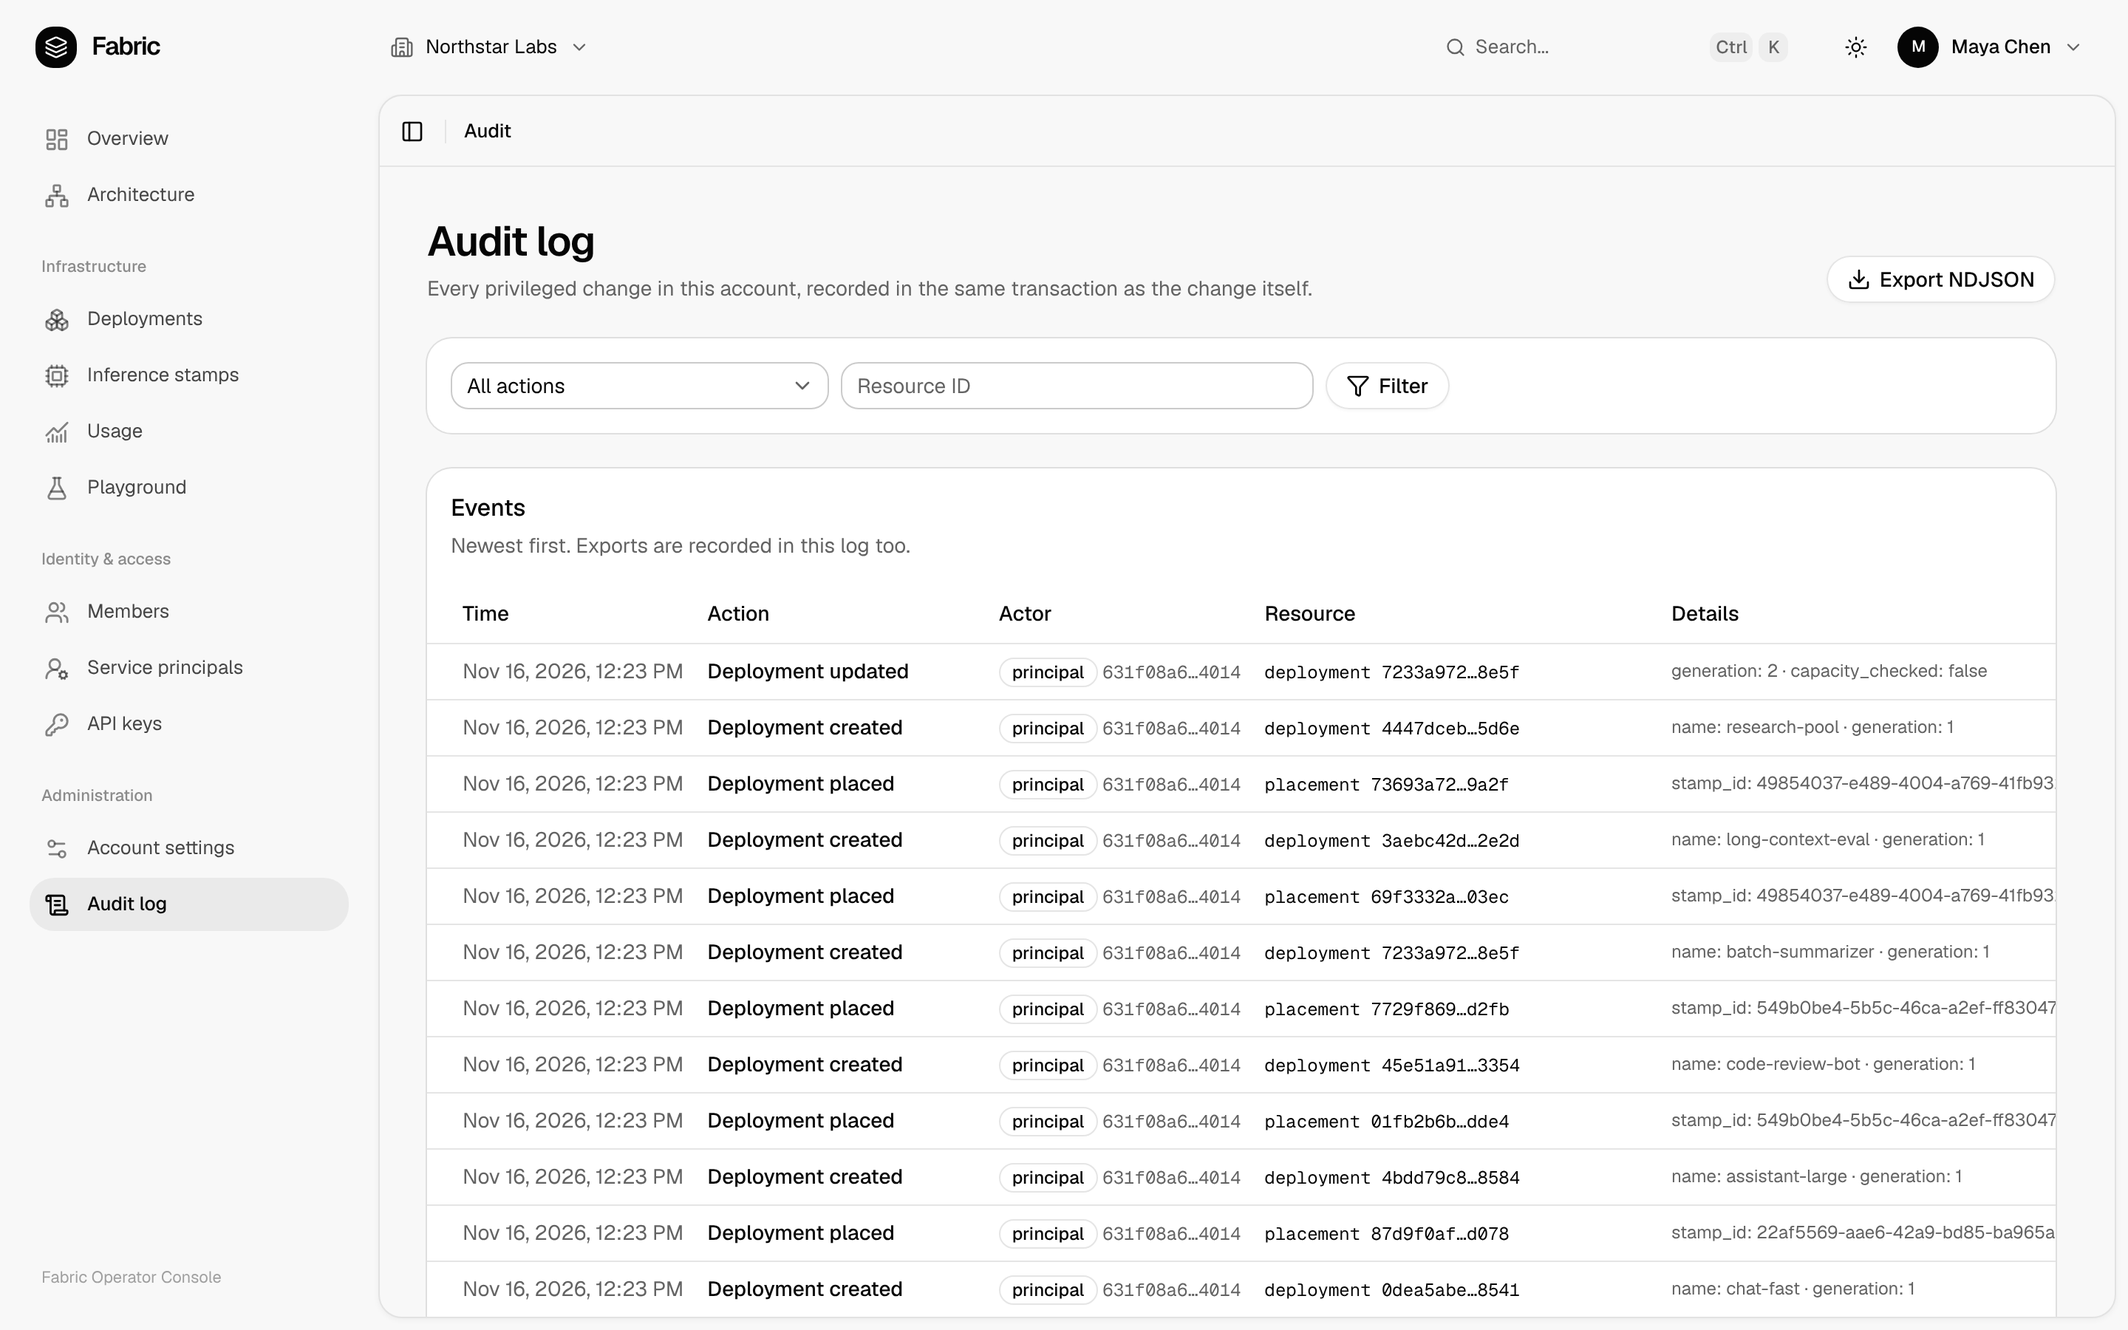
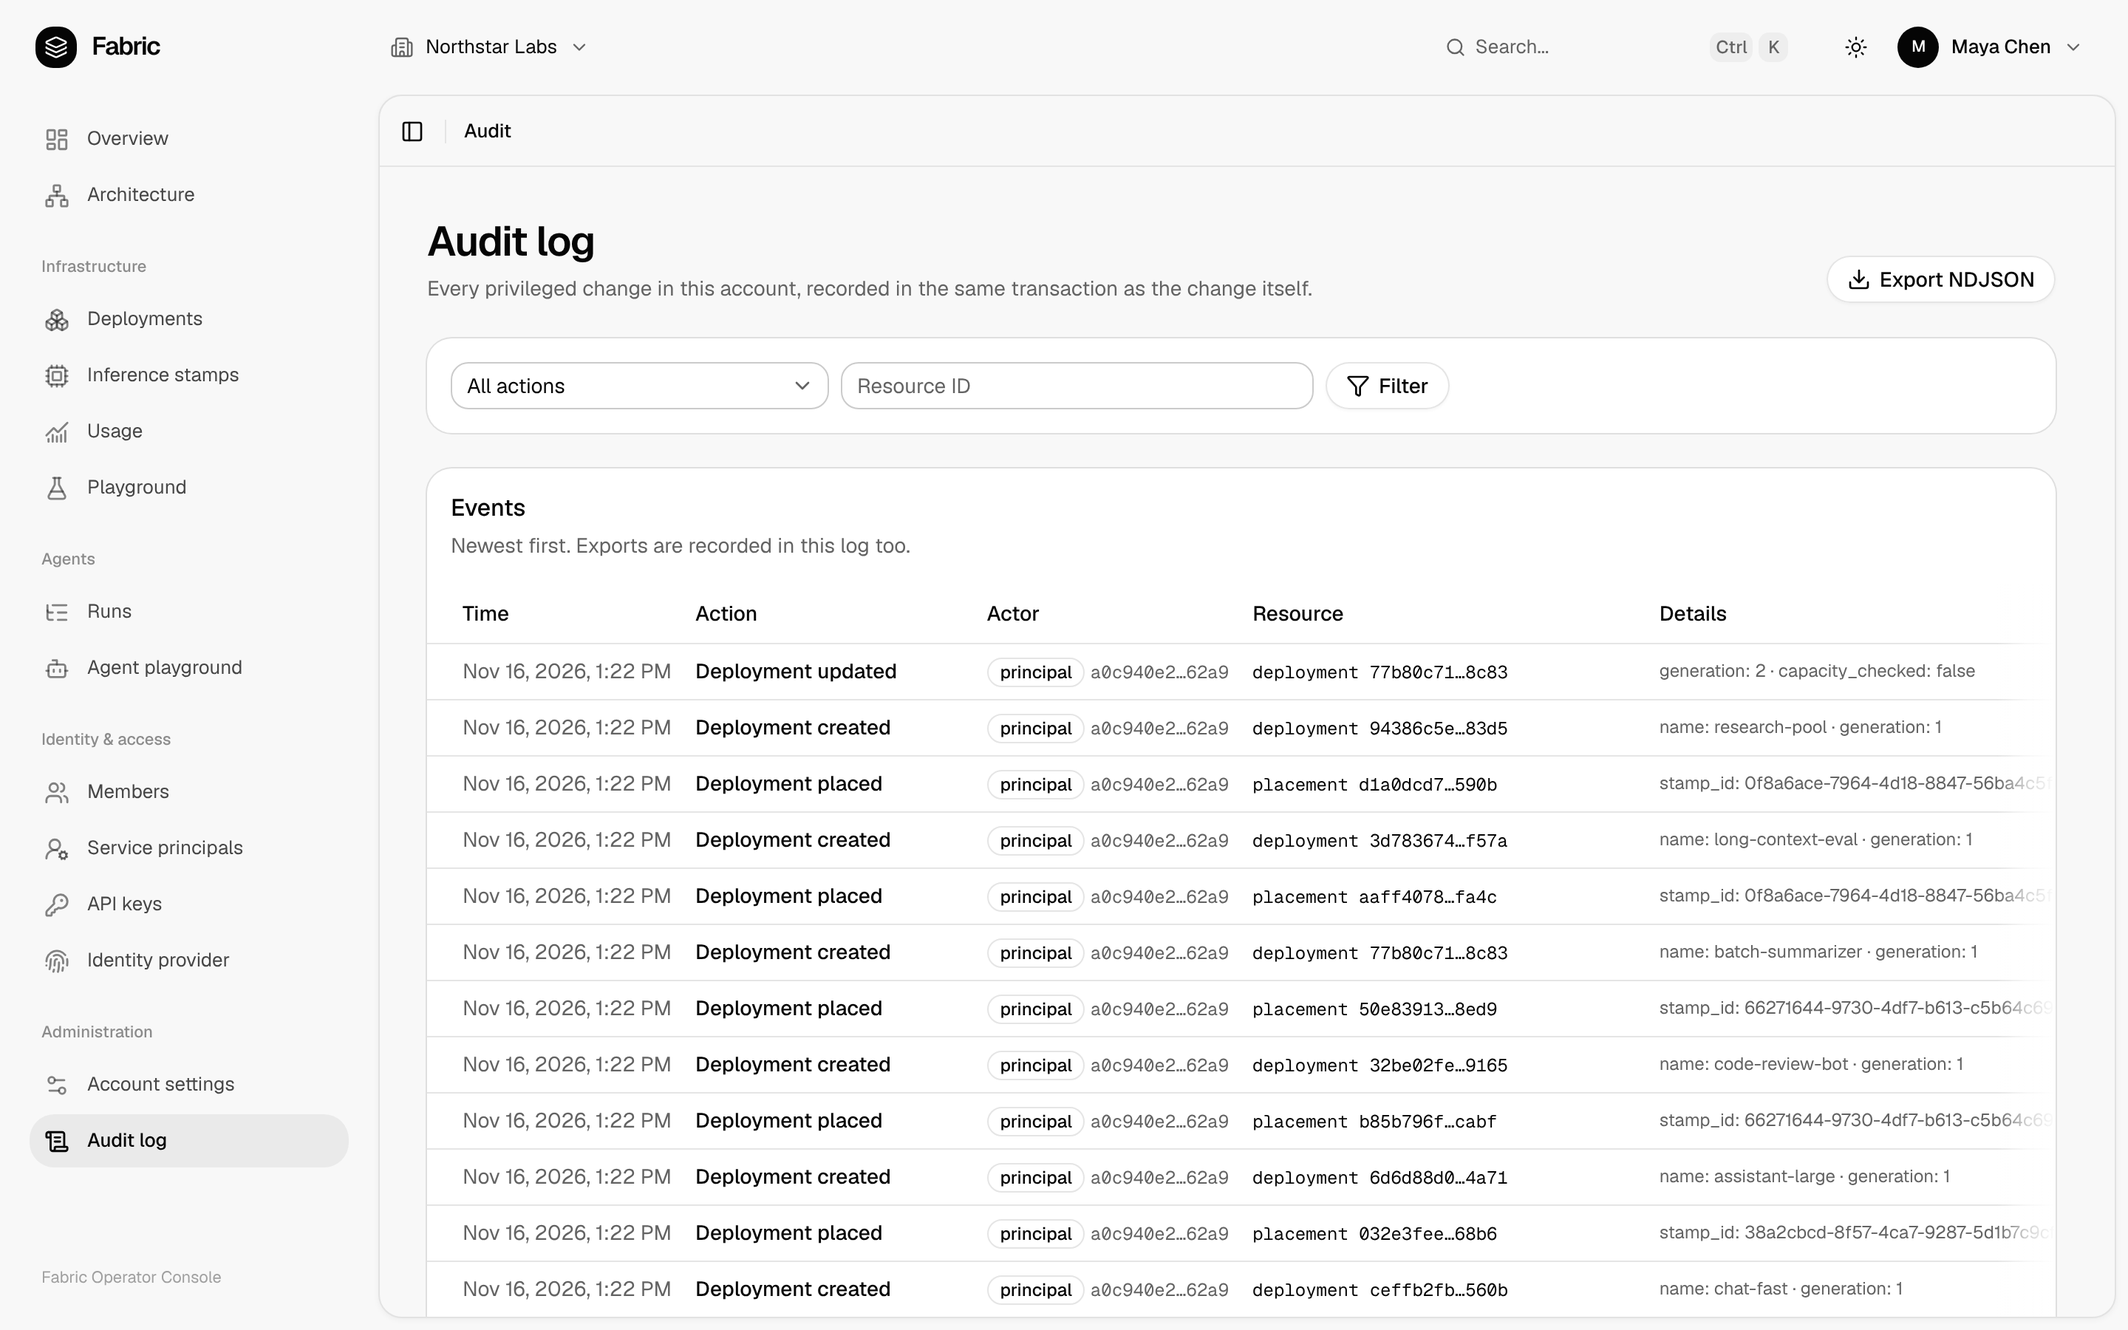
Demo: edge gateway in front of the stamps, screenshots for the new console pages
make demo-console runs the real edge gateway over HTTPS
(scripts/demo-console/edge.py) with an edge credential and stamp address
overrides, and the console uses it, so the playground compares models on
different stamps. Seeded deployments declare cascade tiers. The screenshot
harness covers the account switcher, the deployment Routing card and drawer,
the identity provider page and drawer, member names, a narrow table and the
Agents pages.

Claude-Session: https://claude.ai/code/session_01KVoJdRb3aybwyk1pzwUnwQ

diff --git a/scripts/demo-console/seed.py b/scripts/demo-console/seed.py
@@ -36,6 +36,7 @@ import subprocess
 import sys
 import time
 from pathlib import Path
+from urllib.parse import urlsplit
 
 import httpx
 
@@ -75,16 +76,19 @@ STAMPS = [
 ]
 
 # name, alias, release, stamp (None = not placed), outcome, extra spec, requests to send.
-# Small Qwen3.5 models served by vLLM; the "-large" alias is the cascade's upper tier.
+# Small Qwen3.5 models served by vLLM. cascade_tier orders model="cascade": chat-fast first,
+# then support-assistant, then the "-large" alias as the upper tier.
 DEPLOYMENTS = [
     ("support-assistant", "qwen3.5-2b", "Qwen/Qwen3.5-2B", "aks-gpu", "ready",
      {"replicas": 2, "resources": {"gpu_class": "t4"},
+      "capabilities": {"cascade_tier": 1},
       "runtime": {"max_model_len": 16384, "strategy": "prefix_aware"}}, 140),
     ("chat-fast", "qwen3.5-0.8b", "Qwen/Qwen3.5-0.8B", "aks-gpu", "ready",
-     {"resources": {"gpu_class": "t4"}, "capabilities": {"priority": -10},
+     {"resources": {"gpu_class": "t4"}, "capabilities": {"priority": -10, "cascade_tier": 0},
       "runtime": {"max_model_len": 8192}}, 95),
     ("assistant-large", "qwen3.5-2b-large", "Qwen/Qwen3.5-2B", "gcp-rtx6000", "ready",
-     {"resources": {"gpu_class": "a10"}, "capabilities": {"priority": 10, "reasoning": True},
+     {"resources": {"gpu_class": "a10"},
+      "capabilities": {"priority": 10, "reasoning": True, "cascade_tier": 2},
       "runtime": {"max_model_len": 65536, "max_num_seqs": 256}}, 60),
     ("code-review-bot", "qwen3.5-2b-code", "Qwen/Qwen3.5-2B", "gcp-rtx6000", "deploying",
      {"resources": {"gpu_class": "a10"}, "capabilities": {"code": True}}, 0),
@@ -559,6 +563,13 @@ class Demo:
             "deployment_ids": {name: d["id"] for name, d in self.deployments.items()},
             "playground_deployment_id": playground["id"],
             "stamps": {name: s["id"] for name, s in self.stamps.items()},
+            # Where each stamp's reported gateway really listens, for the demo edge gateway's
+            # address overrides: {"aks-gpu.gw.northstar-labs.example:443": "127.0.0.1:8090"}.
+            "gateway_addresses": {
+                f"{urlsplit(s['inference_url']).hostname}:443":
+                    f"127.0.0.1:{urlsplit(s['dp_url']).port}"
+                for s in self.stamps.values()
+            },
         }
         Path(self.args.state_file).write_text(json.dumps(state, indent=2))
 

diff --git a/scripts/demo-console/edge.py b/scripts/demo-console/edge.py
@@ -1,0 +1,56 @@
+"""Run the real edge gateway (ADR 0021) for the console demo, over HTTPS.
+
+`python -m fabric_data_plane.edge` serves plain HTTP behind an ingress that terminates TLS.
+The demo has no ingress and the console's production build only accepts an HTTPS gateway,
+so this starts the same EdgeGateway, poller and key refresher with the public listener on
+the demo's throwaway certificate. Everything else is configured by the edge's own
+FABRIC_EDGE_* environment, including stamp_address_overrides, which sends each stamp's
+reported https://<stamp>.gw.northstar-labs.example to its local data plane while still
+verifying the certificate for that name.
+
+Environment (besides FABRIC_EDGE_*):
+  DEMO_EDGE_CERT, DEMO_EDGE_KEY   the public listener's certificate and key
+"""
+
+from __future__ import annotations
+
+import asyncio
+import contextlib
+import logging
+import os
+
+import uvicorn
+from fabric_data_plane.edge.app import EdgeGateway, create_edge_admin_app, create_edge_app
+from fabric_data_plane.edge.config import EdgeSettings
+from fabric_data_plane.edge.poller import refresh_keys
+
+
+async def main() -> None:
+    settings = EdgeSettings()
+    logging.basicConfig(level=settings.log_level.upper(),
+                        format="%(asctime)s %(levelname)s %(name)s %(message)s")
+    edge = EdgeGateway(settings)
+    public = uvicorn.Server(uvicorn.Config(
+        create_edge_app(edge), host=settings.host, port=settings.port, log_level="warning",
+        ssl_certfile=os.environ["DEMO_EDGE_CERT"], ssl_keyfile=os.environ["DEMO_EDGE_KEY"],
+    ))
+    admin = uvicorn.Server(uvicorn.Config(
+        create_edge_admin_app(edge), host=settings.admin_host, port=settings.admin_port,
+        log_level="warning", access_log=False,
+    ))
+    background = [
+        asyncio.create_task(edge.poller.run(), name="routing-table-poller"),
+        asyncio.create_task(refresh_keys(edge.keys, settings), name="key-refresher"),
+    ]
+    try:
+        await asyncio.gather(public.serve(), admin.serve())
+    finally:
+        for task in background:
+            task.cancel()
+            with contextlib.suppress(asyncio.CancelledError, Exception):
+                await task
+        await edge.stamp_client.aclose()
+        await edge.control_client.aclose()
+
+
+asyncio.run(main())

diff --git a/docs/console-demo.md b/docs/console-demo.md
@@ -29,7 +29,7 @@ which is there so the account switcher has a second entry.
   dependencies if they are missing.
 - Go, to build the agent and the collector.
 - `openssl` and `curl`.
-- Free ports 3000, 8080, 8090, 8443, 8444 and 9009. Each one can be changed: see the
+- Free ports 3000, 8080, 8090, 8091, 8443, 8444 and 9009. Each one can be changed: see the
   `DEMO_*_PORT` variables at the top of `scripts/demo-console/run.sh`.
 - For screenshots only: Playwright with Chromium (`require('playwright')` must resolve).
 
@@ -47,6 +47,7 @@ Next's development indicator appears in the corner.
 | Stamp agent | **real** | The Go `fabric-agent`. It enrolls each stamp with a single-use token, pulls desired state, writes `deployments.json` and reports status. |
 | Data plane | **real** | One gateway per stamp, loaded from the file that stamp's agent wrote. Inference listeners use HTTPS. |
 | Collector | **real** | The Go `fabric-collector`. It drains each data plane's usage and forwards it every 30 s. |
+| Edge gateway | **real** | `fabric_data_plane.edge`, started by `scripts/demo-console/edge.py` so its public listener uses HTTPS. It polls the control plane's routing table with an edge credential minted by `python -m app.cli create-edge-credential`, and sends each stamp's reported `https://<stamp>.gw.northstar-labs.example` to that stamp's local data plane (`FABRIC_EDGE_STAMP_ADDRESS_OVERRIDES`), verifying the certificate for the name. The console uses it as `FABRIC_EDGE_INFERENCE_URL` and `FABRIC_INFERENCE_URL`, `https://inference.northstar-labs.example`. |
 | Identity provider | **mock** | `scripts/demo-console/mock_oidc.py`. A minimal OIDC provider (discovery, JWKS, `/authorize`, `/oauth/token` with code + PKCE and refresh, `/userinfo`, logout). It stands in for Auth0. |
 | Model host | **mock** | `scripts/demo-console/model_host.py`. An OpenAI-compatible stub that streams canned answers and reports token usage the way vLLM does. With `tools` it plays a scripted tool-using agent for the agent playground. |
 
@@ -81,9 +82,9 @@ APIs by the person or machine that would create it.
 
   | Deployment | Model | Stamp | State |
   |---|---|---|---|
-  | `support-assistant` | `qwen3.5-2b`, 2 replicas | aks-gpu | Ready |
-  | `chat-fast` | `qwen3.5-0.8b` | aks-gpu | Ready |
-  | `assistant-large` | `qwen3.5-2b-large` (cascade upper tier) | gcp-rtx6000 | Ready |
+  | `support-assistant` | `qwen3.5-2b`, 2 replicas, prefix aware, cascade tier 1 | aks-gpu | Ready |
+  | `chat-fast` | `qwen3.5-0.8b`, cascade tier 0 | aks-gpu | Ready |
+  | `assistant-large` | `qwen3.5-2b-large`, cascade tier 2 (upper tier) | gcp-rtx6000 | Ready |
   | `code-review-bot` | `qwen3.5-2b-code` | gcp-rtx6000 | Deploying |
   | `batch-summarizer` | `qwen3.5-0.8b-batch` | vm-gpu | Updating (generation 2 not yet observed) |
   | `long-context-eval` | `qwen3.5-2b-longctx` | vm-gpu | Failed (KV cache does not fit on a T4) |
@@ -111,7 +112,8 @@ resolves that name, so two small preloads map it to `127.0.0.1:8443` for the pro
 need it:
 
 - `scripts/demo-console/resolve-idp.cjs` for the console's Node process, through
-  `NODE_OPTIONS=--require`.
+  `NODE_OPTIONS=--require`. It also maps the edge gateway's name,
+  `inference.northstar-labs.example`, to `127.0.0.1:8091` (`DEMO_HOST_MAP`).
 - `scripts/demo-console/pyshim/sitecustomize.py` for the control plane, through `PYTHONPATH`.
 
 TLS is still verified against the name, using `NODE_EXTRA_CA_CERTS` and `SSL_CERT_FILE`
@@ -126,11 +128,13 @@ is committed.
 
 ## Limitations
 
-- The playground sends every request to one gateway (`FABRIC_INFERENCE_URL`), which is
-  aks-gpu's data plane. Compare `support-assistant` and `chat-fast` there. Choosing
-  `assistant-large`, which runs on gcp-rtx6000, fails, because that gateway does not serve it.
+- The playground and agent playground go through the edge gateway, which serves every ready
+  deployment whatever stamp holds it: compare `support-assistant` (aks-gpu) with
+  `assistant-large` (gcp-rtx6000). `auto` and `cascade` choose among the deployments on the
+  stamp the edge picks.
 - Answers come from the stub model host. They are canned, and only their length depends on the
   model name. Token counts and streaming timing are real measurements of the stub.
 - Deployment endpoints such as `https://aks-gpu.gw.northstar-labs.example/v1` are the
-  `--inference-url` each agent reports. They are not reachable.
+  `--inference-url` each agent reports. Only the demo edge gateway (and the console, through
+  it) reaches them; your browser and shell cannot.
 - Usage totals reset on every start, because the database is created fresh each time.

diff --git a/CHANGELOG.md b/CHANGELOG.md
@@ -8,6 +8,36 @@ yet, so earlier work is summarised by period from the pull-request history.
 
 ### Added
 
+- Console deployment form: kernel mode (auto by default), every balancing strategy the
+  control plane accepts (including prefix aware, explained for agent workloads), model
+  capabilities and automatic-routing eligibility, priority and an optional cascade tier, in
+  Serving settings and a new Routing section. The deployment overview shows them in Runtime
+  and Routing cards.
+- Cascade tier end to end: `spec.capabilities.cascade_tier` (optional, -1000 to 1000) is
+  validated by the control plane, read by the agent, carried on the `ModelDeployment`
+  resource (`cascadeTier`, added to the stamp chart's CRD) and rendered as the data plane
+  entry's `cascade_tier`, so a `model: "cascade"` ladder no longer needs a hand-edited
+  `deployments.json`.
+- Console identity provider page (`/access/identity-provider`): the registered OIDC provider
+  with issuer, audience, signing keys, claim mappings, first sign-in role and status;
+  owners and admins register or edit it in a drawer and remove it with a confirmation.
+- `GET /v1/accounts/{id}/members` returns each member's `email` and `display_name`, and
+  `GET /v1/me` memberships include `account_name` and `account_slug`. A profile refreshed at
+  sign-in expires the cached member lists of that user's accounts. The console shows member
+  names, emails and initials, and names accounts in the workspace chooser and the account
+  switcher, which now switches between accounts directly.
+- Console edge gateway support: with `FABRIC_EDGE_INFERENCE_URL` (set by the control-plane
+  chart from `edge.ingress.host`, or `console.edgeInferenceUrl`), the playground and agent
+  playground send every deployment, `auto` and `cascade` through the edge, and Overview and
+  Stamps show an Edge gateway card. Without it, each deployment goes to the gateway of the
+  stamp holding its ready placement (approved status endpoint or stamp `inference_url`,
+  with `FABRIC_INFERENCE_URL`'s origin approved), and `auto`/`cascade` go to the stamp gateway
+  serving most of the account's deployments.
+- The console demo runs the real edge gateway in front of its three stamps, so the
+  playground compares models on different stamps; screenshots cover the identity provider
+  page, the deployment drawer's Routing section, member names, the account switcher and the
+  Agents pages.
+
 - Console **Agents** section (`docs/console-agents.md`): a Runs page (recent agent runs from
   every approved gateway, status filter, token and step budget meters, refusals and
   tool-guard repairs, live refresh, a clear message for gateways without agent runs), a run
@@ -203,6 +233,15 @@ yet, so earlier work is summarised by period from the pull-request history.
 
 ### Changed
 
+- Console tables scroll sideways inside their card with edge fades and a visible
+  scrollbar, keep sensible minimum widths, and truncate long names, releases and audit
+  details with a tooltip showing the full value.
+- The console's create-deployment action no longer hard-codes `kernel_mode: "standard"` and
+  `strategy: "least_in_flight"`; it sends the form's choices (kernel mode defaults to
+  `auto`, which the operator currently serves with the engine's own kernels).
+- The console playground prefers a deployment's own stamp gateway over a single
+  `FABRIC_INFERENCE_URL` when that stamp's endpoint is approved, so deployments on other
+  stamps no longer fail.
 - With `FABRIC_KERNEL` set on a T4, the packed kernel now defaults to the measured 16/1
   tile at batch 16 and below, instead of vLLM's 32/1. Set `FABRIC_KERNEL_BLOCK_V=32`,
   `FABRIC_KERNEL_NUM_WARPS=1` and `FABRIC_KERNEL_NUM_STAGES=3` for the previous tile.

diff --git a/docs/screenshots/console/README.md b/docs/screenshots/console/README.md
@@ -6,25 +6,35 @@ in the light theme unless noted. To regenerate them, run `make demo-console-scre
 [docs/console-demo.md](../../console-demo.md) for what is real and what is mocked.
 
 - Landing / sign-in: [01-landing.png](01-landing.png)
-- Onboarding and account switcher: [02-onboarding-account-switcher.png](02-onboarding-account-switcher.png)
-- Dashboard (overview): [03-dashboard.png](03-dashboard.png)
+- Onboarding, choosing between named accounts: [02-onboarding-account-switcher.png](02-onboarding-account-switcher.png)
+- Header account switcher, open: [02b-account-switcher-menu.png](02b-account-switcher-menu.png)
+- Dashboard (overview), with the edge gateway card: [03-dashboard.png](03-dashboard.png)
 - Dashboard, dark theme: [04-dashboard-dark.png](04-dashboard-dark.png)
 - Deployments list: [05-deployments.png](05-deployments.png)
-- Deployments list, 1800 px wide: [05b-deployments-wide.png](05b-deployments-wide.png)
+- Deployments list in a 1100 px window, scrolling inside its card: [05b-deployments-narrow.png](05b-deployments-narrow.png)
 - Deployment detail, ready: [06-deployment-detail.png](06-deployment-detail.png)
+- Deployment detail, Runtime and Routing cards: [06b-deployment-detail-routing.png](06b-deployment-detail-routing.png)
 - Deployment detail, failed, Status tab: [07-deployment-detail-failed-status.png](07-deployment-detail-failed-status.png)
 - New deployment form: [08-deployment-new.png](08-deployment-new.png)
-- Inference stamps: [09-stamps.png](09-stamps.png)
+- Create-deployment drawer, Routing section filled in: [08b-deployment-drawer-routing.png](08b-deployment-drawer-routing.png)
+- Inference stamps, with the edge gateway card: [09-stamps.png](09-stamps.png)
 - Stamp enrollment dialog: [10-stamps-enroll-dialog.png](10-stamps-enroll-dialog.png)
 - Usage: [11-usage.png](11-usage.png)
 - Audit log: [12-audit.png](12-audit.png)
 - Audit log, filtered to "Deployment created": [13-audit-filtered.png](13-audit-filtered.png)
 - Access, API keys: [14-access-api-keys.png](14-access-api-keys.png)
-- Access, members: [15-access-members.png](15-access-members.png)
+- Access, members with names and emails: [15-access-members.png](15-access-members.png)
 - Access, service principals: [16-access-service-principals.png](16-access-service-principals.png)
+- Access, identity provider: [17-access-identity-provider.png](17-access-identity-provider.png)
+- Identity provider edit drawer: [17b-identity-provider-drawer.png](17b-identity-provider-drawer.png)
 - Account settings: [18-settings.png](18-settings.png)
-- Playground, side-by-side streamed answers: [19-playground.png](19-playground.png)
+- Playground, side-by-side streamed answers from two stamps through the edge gateway: [19-playground.png](19-playground.png)
 - Architecture explorer: [20-architecture.png](20-architecture.png)
+- Agents, runs: [21-agents-runs.png](21-agents-runs.png)
+- Agents, run trace: [22-agents-run-detail.png](22-agents-run-detail.png)
+- Agents, agent playground: [23-agents-playground.png](23-agents-playground.png)
 
-There is no identity provider screenshot. In this console version, `/access/identity-provider`
-redirects to Account settings.
+`drawers/` holds the create and edit drawers; `drawers/create-deployment.png` is regenerated
+by the same command, the others were captured when the drawers were introduced. `agents/`
+holds the step-by-step agent playground walkthrough from
+[docs/console-agents.md](../../console-agents.md).
